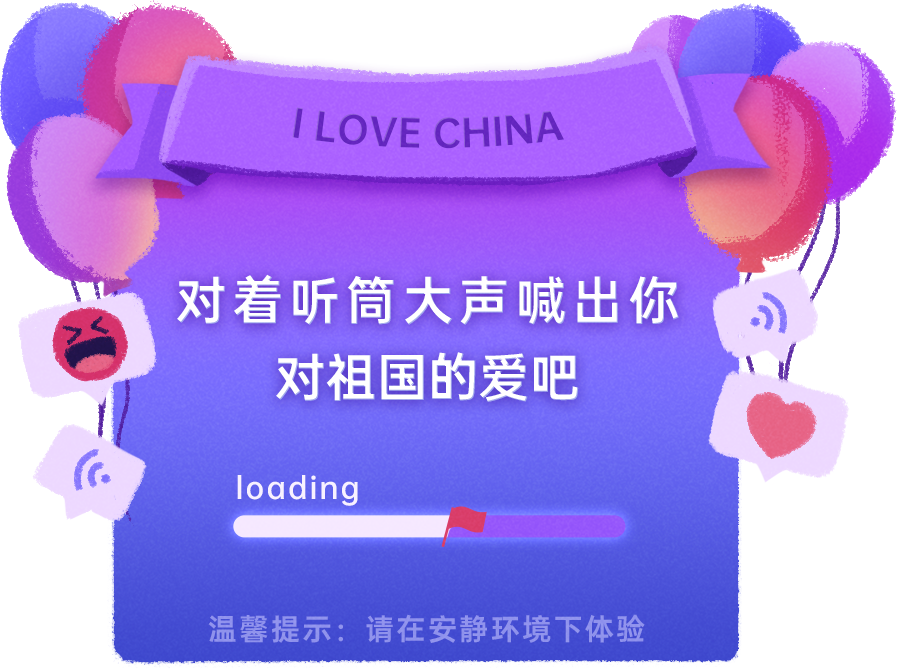
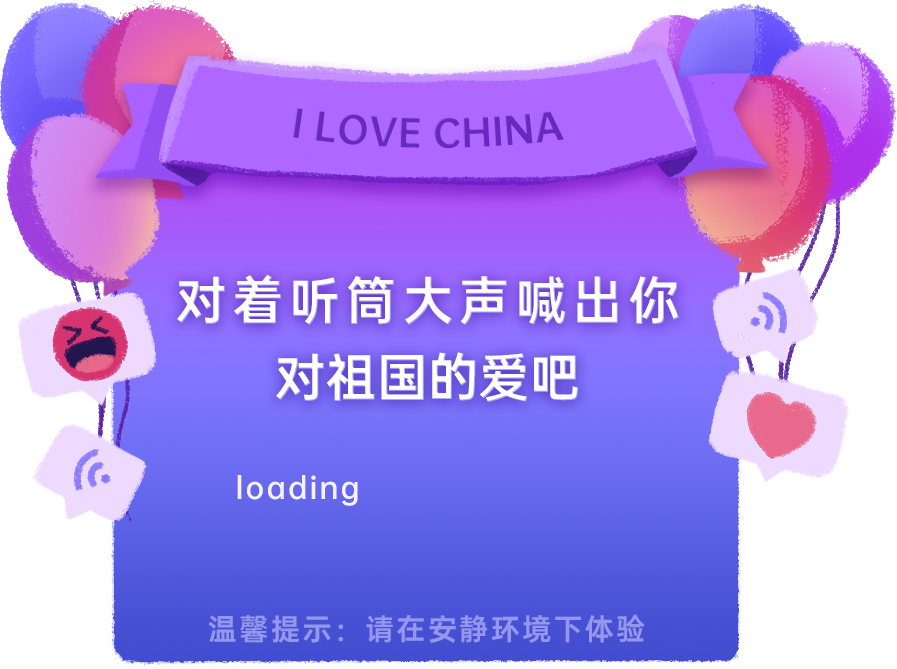
no message

Changed region(s): [[0.2497, 0.7474, 0.7179, 0.8072]]

diff --git a/src/index.css b/src/index.css
@@ -206,6 +206,43 @@ a:hover{
 	left:50%;
 	bottom:0;
 	transform: translate(-50%,150%);
+	display: none;
+}
+.dialog .loading-line{
+	width:39%;
+	height:2%;
+	background: #9261f7;
+	position: absolute;
+	bottom:20%;
+	left:50%;
+	transform: translateX(-50%);
+	border-radius: 10px;
+}
+.dialog .loading-line .progress{
+	background: #f4e9ff;
+	width: 0;
+	height:100%;
+	position: relative;
+	animation-name: example;
+  	animation-duration: 3s;
+}
+@keyframes example {
+	0%   {width: 0;}
+	50%  {width: 80%;}
+	75%  {width: 90%;}
+	100% {width: 95%;}
+}
+.dialog .loading-line .progress .icon{
+	width:20px;
+	height:20px;
[1 lines of base64/hex data omitted]
+	background-size: 100%;
+	background-repeat: no-repeat;
+	background-position: center;
+	position: absolute;
+	right:0;
+	top:50%;
+	transform: translate(86%,-50%);
 }
 .step-dialog{
 	display: none;

diff --git a/index.html b/index.html
@@ -69,6 +69,15 @@
 	<div class="dialog loading-dialog">
 		<div class="pic">
 			<img class="dialog1" src="./src/images/loading.png">
+			<div class="loading-line">
+				<div class="progress">
+					<div class="icon">
+					</div>
+					<div class="line">
+						
+					</div>
+				</div>
+			</div>
 			<div class="loading-btn" onclick="hoistFlag.start()">
 				<img src="./src/images/loading-btn.png" alt="">
 			</div>

diff --git a/src/index.js b/src/index.js
@@ -68,6 +68,8 @@ var hoistFlag = {
 		$(".flag-wrap").css('height',hoistFlag.flagHeight)
 	},
 	init: function(){
+		$(".loading-btn").show()
+		$(".progress").width("100%")
 		hoistFlag.dataInit()
 		$('body').on('reSize',function(){
 			hoistFlag.dataInit()
